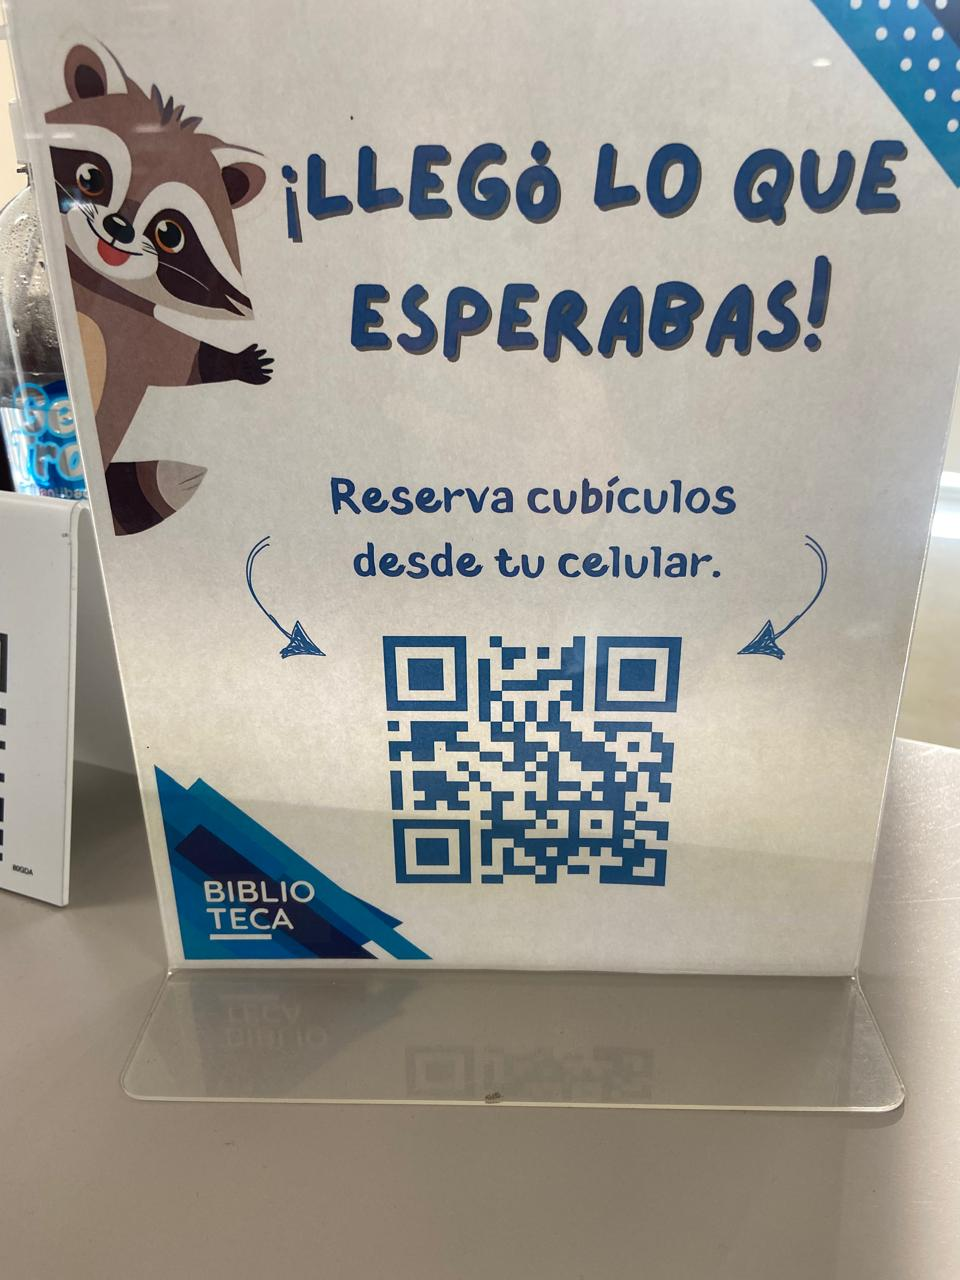
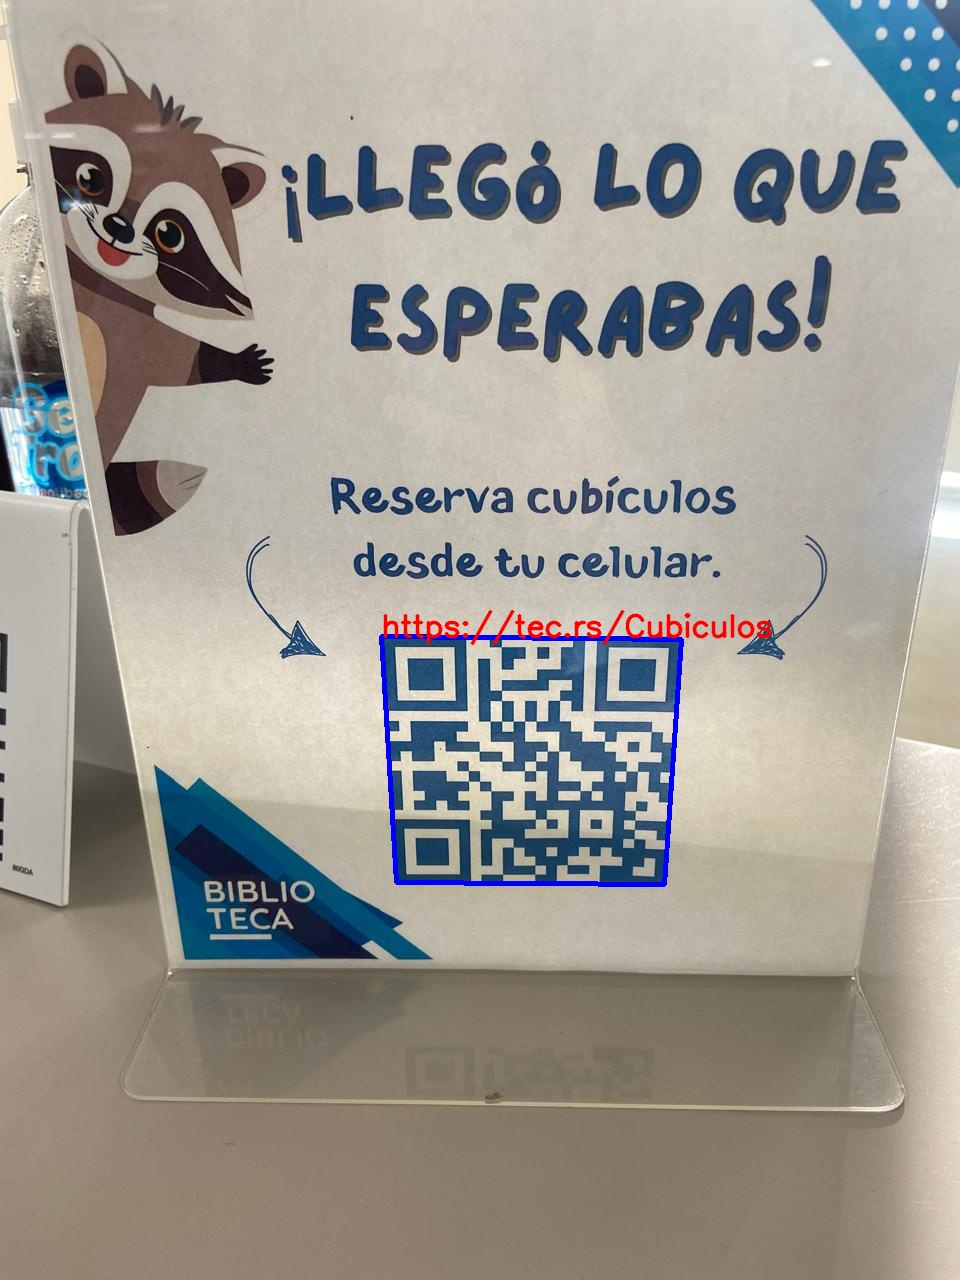
Fixed code and edded additional error handlig -Ray

Changed region(s): [[0.375, 0.4688, 0.8125, 0.7188]]

diff --git a/codigo.py b/codigo.py
@@ -4,14 +4,17 @@ import numpy as np
 #import matplotlib.pyplot as plt
 import os
 
+CAMERA_ID = 0 #Id de la cámara, la del equipo es 0, por que es solo una cámara
+DELAY = 1 #Delay de la cámara
+WINDOW_NAME = "Lector de QR's"
+QR_D = cv.QRCodeDetector() #Inializa la detección de QR's
+CAP = cv.VideoCapture(CAMERA_ID) #Inicializa la fuente de video
+
 #imagenes a procesar
 def process_qr_image(img_path) :
-
-
     if not os.path.exists(img_path + ".jpg"):
         print("La imagen no existe en el bancod de imagenes")
-        return
-    
+        return 1
 
     img1=cv.imread(img_path + ".jpg")
     gray=cv.cvtColor(img1,cv.COLOR_BGR2GRAY) #convertir imagen a escala de grises
@@ -26,41 +29,24 @@ def process_qr_image(img_path) :
     mask_erode = cv.erode(mask_blur, kernel, iterations=1)   # Erosión
     mask_dilate = cv.dilate(mask_erode, kernel, iterations=2) # Dilatación
 
-    #aplicar metodos para resaltar los bordes del qr
-    laplacian = cv.Laplacian(mask_dilate, cv.CV_64F)
-    sobelx = cv.Sobel(mask_dilate, cv.CV_64F, 1, 0, ksize=5)
-    sobely = cv.Sobel(mask_dilate, cv.CV_64F, 0, 1, ksize=5)
-
     #invertir colores de la imagen procesada
     thresh = cv.bitwise_not(mask_dilate)
     cv.imwrite(img_path + "_filtrado" + ".jpg", thresh)
     print("Imagen guardada :D")
-
-def main() : #menu principal
-    print("Introduce que imagen quieres ")
-    ruta=input().strip()
-    process_qr_image(ruta)
-
-main()
-
-CAMERA_ID = 0 #Id de la cámara, la del equipo es 0, por que es solo una cámara
-DELAY = 1 #Delay de la cámara
-WINDOW_NAME = "Lector de QR's"
-QR_D = cv.QRCodeDetector() #Inializa la detección de QR's
-CAP = cv2.VideoCapture(CAMERA_ID) #Inicializa la fuente de video
+    return 0
 
 def read_qr_image(img_path) :
     #Leemos el código QR procesado y guardado
-    processed_img = cv.imread(img_path)
+    processed_img = cv.imread(img_path + "_filtrado" + ".jpg")
     """
     Detectamos y decodificamos la imagen procesada en busca del QR
     Se asignan los siguientes valores a las siguientes variables dependiendo del input:
     - retval: Booleano, True si detecta por lo menos un código QR, none si no
     - decoded_info: TUpla cuyos elementos son strings de los QR; si se detectan pero no se decodifican será un string vació
     - points: Array de las coordenadas de las cuatro esquinas del QR
-    - plain_qr_code: Tupla de arrays, valores binarios de 0 a 255 que representan los blancos y negros de cada celda de un QR
+    - plain_qr_code (segundo _): Tupla de arrays, valores binarios de 0 a 255 que representan los blancos y negros de cada celda de un QR
     """
-    retval, decoded_info, points, plain_qr_code = QR_D.detectAndDecodeMulti(processed_img)
+    retval, decoded_info, points, _ = QR_D.detectAndDecodeMulti(processed_img)
     """
     Añade un borde de color azul a la imagen del QR, si es que se detectó
     Inputs:
@@ -70,25 +56,28 @@ def read_qr_image(img_path) :
     - (0, 255, 0): Tupla que determina el color de linea del borde, azul en formato BGR
     - 3: Anchura de linea del borde
     """
-    framed_qr = cv2.polylines(processed_img, points.astype(int), True, (255, 0, 0), 3)
-    """
-    Iteramos por cada QR tanto por información decodificada como por cada punto de las esquinas del QR para añadirles texto
-    Variables del loop:
-    - s: Strings decodificados del QR
-    - p: Coordenadas de la primera esquina del QR, se busca colocar el texto al inicio de esta
-    - processed_img: Imagen del QR donde se colocará el texto
-    Variables de configuración del texto
-    - cv.FONT_HERSHEY_SIMPLEX: Fuente del texto
-    - 1: escala de la fuente
-    - (0, 0, 255): Color del texto, rojo, en formato BGR
-    - 2: Anchura de las lineas
-    - cv.LINE_AA: Tipo de linea del texto, con anti-aliasing para verse más suaves
-    """
-    text_conf = cv.FONT_HERSHEY_SIMPLEX, 1, (0, 0, 255), 2, cv.LINE_AA
-    for s, p in zip(decoded_info, points) : 
-        processed_img = cv.putText(processed_img, s, p[0].astype(int)), text)
-    #Guardamos el QR sobreescribiendo el contenido de la imagen procesada
-    cv.imwrite(img_path, processed_img)
+    if (retval) :
+        framed_qr = cv.polylines(processed_img, points.astype(int), True, (255, 0, 0), 3)
+        """
+        Iteramos por cada QR tanto por información decodificada como por cada punto de las esquinas del QR para añadirles texto
+        Variables del loop:
+        - s: Strings decodificados del QR
+        - p: Coordenadas de la primera esquina del QR, se busca colocar el texto al inicio de esta
+        - framed_qr: Imagen del QR donde se colocará el texto
+        Variables de configuración del texto
+        - cv.FONT_HERSHEY_SIMPLEX: Fuente del texto
+        - 1: escala de la fuente
+        - (0, 0, 255): Color del texto, rojo, en formato BGR
+        - 2: Anchura de las lineas
+        - cv.LINE_AA: Tipo de linea del texto, con anti-aliasing para verse más suaves
+        """
+        
+        for s, p in zip(decoded_info, points) : 
+            framed_qr = cv.putText(framed_qr, s, p[0].astype(int), cv.FONT_HERSHEY_SIMPLEX, 1, (0, 0, 255), 2, cv.LINE_AA)
+        #Guardamos el QR sobreescribiendo el contenido de la imagen procesada
+        cv.imwrite(img_path + "_filtrado" + ".jpg", processed_img)
+    else :
+        print("No se detectó ningún código QR")
 
 def proccess_qr_from_video() :
     """
@@ -100,21 +89,30 @@ def proccess_qr_from_video() :
     cv.waitkey...: Detiene la ejecución de la función al presionar la letra q
     """
     while True:
-    ret, frame = CAP.read()
+        ret, frame = CAP.read()
 
-    if ret:
-        ret_qr, decoded_info, points, _ = QR_D.detectAndDecodeMulti(frame)
-        if ret_qr:
-            for s, p in zip(decoded_info, points):
-                if s:
-                    print(s)
-                    color = (0, 255, 0)
-                else:
-                    color = (0, 0, 255)
-                frame = cv.polylines(frame, [p.astype(int)], True, color, 8)
-        cv.imshow(window_name, frame)
+        if ret:
+            ret_qr, decoded_info, points, _ = QR_D.detectAndDecodeMulti(frame)
+            if ret_qr:
+                for s, p in zip(decoded_info, points):
+                    if s:
+                        print(s)
+                        color = (0, 255, 0)
+                    else:
+                        color = (0, 0, 255)
+                    frame = cv.polylines(frame, [p.astype(int)], True, color, 8)
+            cv.imshow(WINDOW_NAME, frame)
 
-    if cv.waitKey(delay) & 0xFF == ord('q'):
-        break
+        if cv.waitKey(DELAY) & 0xFF == ord('q'):
+            break
 
-cv2.destroyWindow(WINDOW_NAME)
+def main() : #menu principal
+    print("Introduce que imagen quieres ")
+    ruta=input().strip()
+    accion = process_qr_image(ruta)
+    if (accion == 0) :
+        read_qr_image(ruta)
+        proccess_qr_from_video()
+        cv.destroyWindow(WINDOW_NAME)
+
+main()
